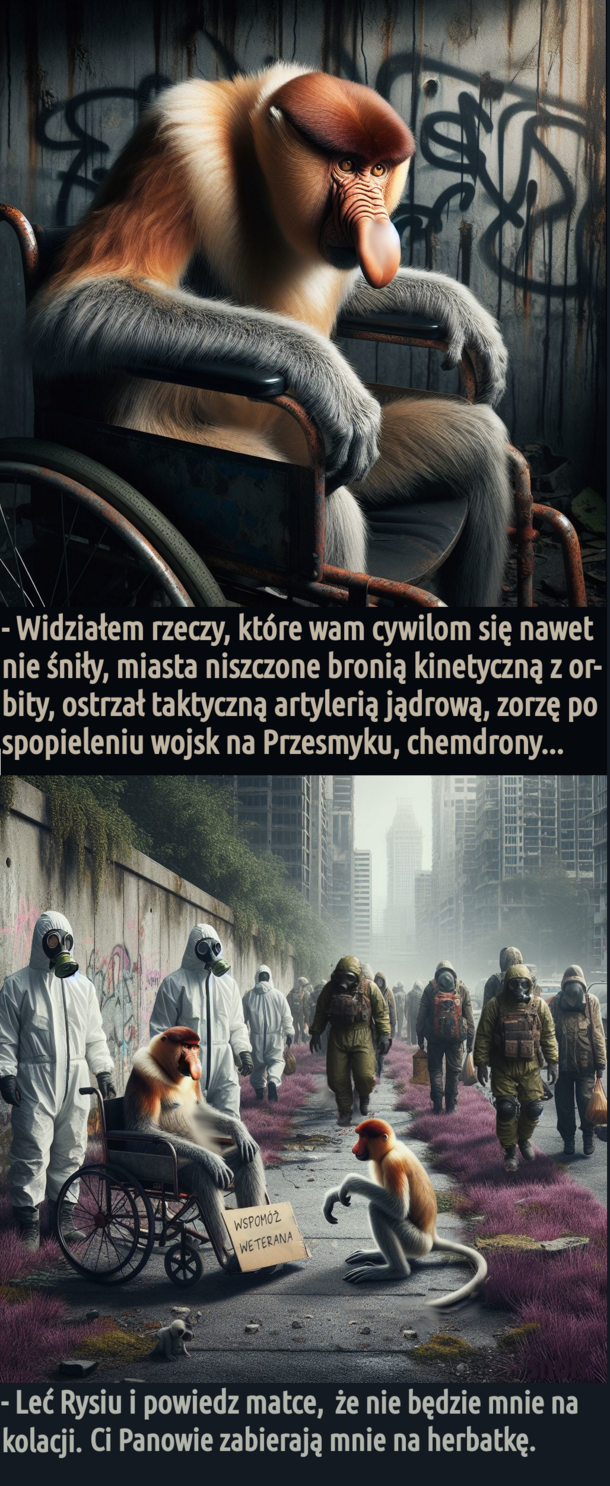
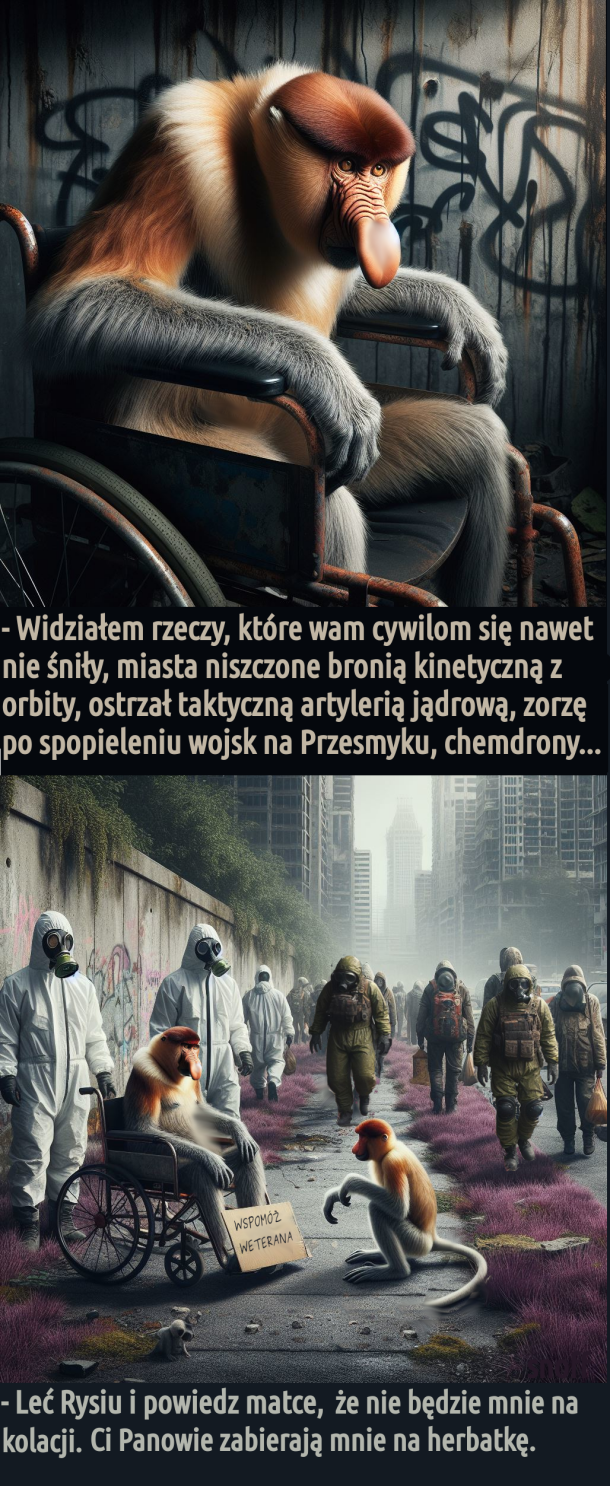
nowy kontent

Changed region(s): [[0.0, 0.4334, 0.9967, 0.5262]]

diff --git a/index.html b/index.html
@@ -29,6 +29,23 @@
 <!-- ========================================== -->
 <!-- Maupy Apokalipsy — wszystkie wpisy -->
 <!-- ========================================== -->
+
+<article class="panel" id="dla-mnie-sie-podoba">
+  <header class="panel-meta">
+    <h2 class="panel-title"><a href="#dla-mnie-sie-podoba">Maupy Apokalipsy czyli Polska Postapo, odc 11312, ciśnienie biegu jałowego</a></h2>
+    <time class="panel-date" datetime="2026-09-21">2026-09-21</time>
+  </header>
+  <input type="checkbox" class="expand-toggle" id="expand-3092">
+  <figure class="panel-figure">
+    <img src="img/ciezko3.png" alt="dla mnie się podoba?" loading="lazy">
+    <figcaption class="visually-hidden"></figcaption>
+  </figure>
+  <label for="expand-3092" class="expand-label">kliknij, żeby rozwinąć</label>
+  <!-- 
+     https://jbzd.com.pl/obr/4620411/maupy-apokalipsy-czyli-polska-postapo-odc-11312-cisnienie-biegu-jalowego
+    -->
+</article>
+
 <article class="panel" id="gdzie-na-zamiatane">
   <header class="panel-meta">
     <h2 class="panel-title"><a href="#gdzie-na-zamiatane">Maupy Apokalipsy czyli Polska Postapo, odc 15206, ile można sprzątać?</a></h2>
@@ -41,7 +58,7 @@
   </figure>
   <label for="expand-3062" class="expand-label">kliknij, żeby rozwinąć</label>
   <!-- URLs: https://jbzd.com.pl/obr/4603344/maupy-apokalipsy-czyli-polska-postapo-odc-15206-ile-mozna-sprzatac  
-   https://jbzd.com.pl/obr/4601424/maupy-apokalipsy-czyli-polska-postapo-odc-15196-ostatnia-deska --> 
+   --> 
 </article>
 
 <article class="panel" id="biore-na-siebie">
@@ -307,7 +324,9 @@
     <figcaption class="visually-hidden">Maupy Apokalipsy czyli Polska Postapo odc 15193, Konkubętka</figcaption>
   </figure>
   <label for="expand-61" class="expand-label">kliknij, żeby rozwinąć</label>
-  <!-- URLs: https://kwejk.pl/obrazek/4084894/maupy-apokalipsy-czyli-polska-postapo-odc-15193.html -->
+  <!-- URLs: https://kwejk.pl/obrazek/4084894/maupy-apokalipsy-czyli-polska-postapo-odc-15193.html
+	  https://jbzd.com.pl/obr/4608275/maupy-apokalipsy-czyli-polska-postapo-odc-15193-konkubetka
+  -->
 </article>
 
 <article class="panel" id="maupy-apokalipsy-czyli-polska-postapo-odc-15218-epilog">
@@ -800,7 +819,9 @@
     <figcaption class="visually-hidden">Maupy Apokalipsy czyli Polska Postapo odc 15220, Się gra się ma</figcaption>
   </figure>
   <label for="expand-26" class="expand-label">kliknij, żeby rozwinąć</label>
-  <!-- URLs: https://kwejk.pl/obrazek/4090816/maupy-apokalipsy-czyli-polska-postapo-odc-15220-sie-gra-sie-ma.html -->
+  <!-- URLs: https://kwejk.pl/obrazek/4090816/maupy-apokalipsy-czyli-polska-postapo-odc-15220-sie-gra-sie-ma.html
+             https://jbzd.com.pl/obr/4617396/maupy-apokalipsy-czyli-polska-postapo-odc-15220-sie-gra-sie-ma
+  -->
 </article>
 
 <article class="panel" id="maupy-apokalipsy-czyli-polska-postapo-odc-15221-duszo-i-parn">
@@ -957,7 +978,9 @@
     <figcaption class="visually-hidden">Maupy Apokalipsy czyli Polska Postapo odc 15215, Jeszcze przedwojenne zapasy</figcaption>
   </figure>
   <label for="expand-36" class="expand-label">kliknij, żeby rozwinąć</label>
-  <!-- URLs: https://kwejk.pl/obrazek/4089531/maupy-apokalipsy-czyli-polska-postapo-odc-15215-jeszcze-przedwojenne-zapasy.html -->
+  <!-- URLs: https://kwejk.pl/obrazek/4089531/maupy-apokalipsy-czyli-polska-postapo-odc-15215-jeszcze-przedwojenne-zapasy.html 
+	  https://jbzd.com.pl/obr/4614452/maupy-apokalipsy-czyli-polska-postapo-odc-15215-jeszcze-przedwojenne-zapasy
+  -->
 </article>
 
 <article class="panel" id="maupy-apokalipsy-czyli-polska-postapo-odc-15307-120">
@@ -986,7 +1009,8 @@
     <figcaption class="visually-hidden">Maupy Apokalipsy czyli Polska Postapo odc 15216, Co wam się nie podoba obywatelu?</figcaption>
   </figure>
   <label for="expand-37" class="expand-label">kliknij, żeby rozwinąć</label>
-  <!-- URLs: https://kwejk.pl/obrazek/4089711/maupy-apokalipsy-czyli-polska-postapo-odc-15216-co-wam-sie-nie-podoba-obywatelu.html -->
+  <!-- URLs: https://kwejk.pl/obrazek/4089711/maupy-apokalipsy-czyli-polska-postapo-odc-15216-co-wam-sie-nie-podoba-obywatelu.html 
+       https://jbzd.com.pl/obr/4615477/maupy-apokalipsy-czyli-polska-postapo-odc-15216-co-wam-sie-nie-podoba-obywatelu -->
 </article>
 
 <article class="panel" id="maupy-apokalipsy-czyli-polska-postapo-odc-15217-jak-to-na-wc">
@@ -1143,7 +1167,9 @@
     <figcaption class="visually-hidden">Maupy Apokalipsy czyli Polska Postapo odc 15197, Przesłuchanie</figcaption>
   </figure>
   <label for="expand-49" class="expand-label">kliknij, żeby rozwinąć</label>
-  <!-- URLs: https://kwejk.pl/obrazek/4085547/maupy-apokalipsy-czyli-polska-postapo-odc-15197-przesluchanie.html -->
+  <!-- URLs: https://kwejk.pl/obrazek/4085547/maupy-apokalipsy-czyli-polska-postapo-odc-15197-przesluchanie.html 
+	     https://jbzd.com.pl/obr/4618495/maupy-apokalipsy-czyli-polska-postapo-odc-15197-przesluchanie
+  -->
 </article>
 
 <article class="panel" id="maupy-apokalipsy-czyli-polska-postapo-odc-15198-xx-stopien-z">
@@ -1185,7 +1211,9 @@
     <figcaption class="visually-hidden">Maupy Apokalipsy czyli Polska Postapo odc 15200, Tu nie wolno żebrać</figcaption>
   </figure>
   <label for="expand-52" class="expand-label">kliknij, żeby rozwinąć</label>
-  <!-- URLs: https://kwejk.pl/obrazek/4086142/maupy-apokalipsy-czyli-polska-postapo-odc-15200-tu-nie-wolno-zebrac.html -->
+  <!-- URLs: https://kwejk.pl/obrazek/4086142/maupy-apokalipsy-czyli-polska-postapo-odc-15200-tu-nie-wolno-zebrac.html 
+	  https://jbzd.com.pl/obr/4612903/maupy-apokalipsy-czyli-polska-postapo-odc-15200-tu-nie-wolno-zebrac
+  -->
 </article>
 
 <article class="panel" id="maupy-apokalipsy-czyli-polska-postapo-odc-15201-przywolanie">
@@ -1314,7 +1342,9 @@
     <figcaption class="visually-hidden">Maupy Apokalipsy czyli Polska Postapo odc 15194, Nostalgia</figcaption>
   </figure>
   <label for="expand-62" class="expand-label">kliknij, żeby rozwinąć</label>
-  <!-- URLs: https://kwejk.pl/obrazek/4085040/maupy-apokalipsy-czyli-polska-postapo-odc-15194-nostalgia.html -->
+  <!-- URLs: https://kwejk.pl/obrazek/4085040/maupy-apokalipsy-czyli-polska-postapo-odc-15194-nostalgia.html
+	  https://jbzd.com.pl/obr/4604363/maupy-apokalipsy-czyli-polska-postapo-odc-15194-mieszanka-nostalgii-i-melancholii
+  -->
 </article>
 
 <article class="panel" id="maupy-apokalipsy-czyli-polska-postapo-odc-15195-szaber">
@@ -1397,11 +1427,13 @@
   </header>
   <input type="checkbox" class="expand-toggle" id="expand-68">
   <figure class="panel-figure">
-    <img src="img/poptaki.png" alt="poptaki.png" loading="lazy">
+    <img src="img/poptaki.png" alt="poptaki3.png" loading="lazy">
     <figcaption class="visually-hidden">I po ptakach</figcaption>
   </figure>
   <label for="expand-68" class="expand-label">kliknij, żeby rozwinąć</label>
-  <!-- URLs: https://kwejk.pl/obrazek/4080467/po-ptakach.html -->
+  <!-- URLs: https://kwejk.pl/obrazek/4080467/po-ptakach.html 
+	  https://jbzd.com.pl/obr/4611417/maupy-apokalipsy-czyli-polska-postapo-odc-11302-aleja-otepienia
+  -->
 </article>
 
 <article class="panel" id="doradca-prezydenta-uspokaja-ze-cywilizacja-przetrwa-konflikt">
@@ -1583,11 +1615,13 @@
   </header>
   <input type="checkbox" class="expand-toggle" id="expand-78">
   <figure class="panel-figure">
-    <img src="img/kanibaliada2.png" alt="kanibaliada2.png" loading="lazy">
+    <img src="img/kanibaliada3.png" alt="kanibaliada2.png" loading="lazy">
     <figcaption class="visually-hidden">mamy sporo otwartych etatów, omówimy to przy obiedzie</figcaption>
   </figure>
   <label for="expand-78" class="expand-label">kliknij, żeby rozwinąć</label>
-  <!-- URLs: https://kwejk.pl/obrazek/4041549/mamy-sporo-otwartych-etatow-omowimy-to-przy-obiedzie.html -->
+  <!-- URLs: https://kwejk.pl/obrazek/4041549/mamy-sporo-otwartych-etatow-omowimy-to-przy-obiedzie.html 
+        https://jbzd.com.pl/obr/4619425/maupy-apokalipsy-czyli-polska-postapo-odc-10201-mamy-sporo-otwartych-etatow-omowimy-to-przy-obiedzie
+  -->
 </article>
 
 <article class="panel" id="vat-a-co-to">
